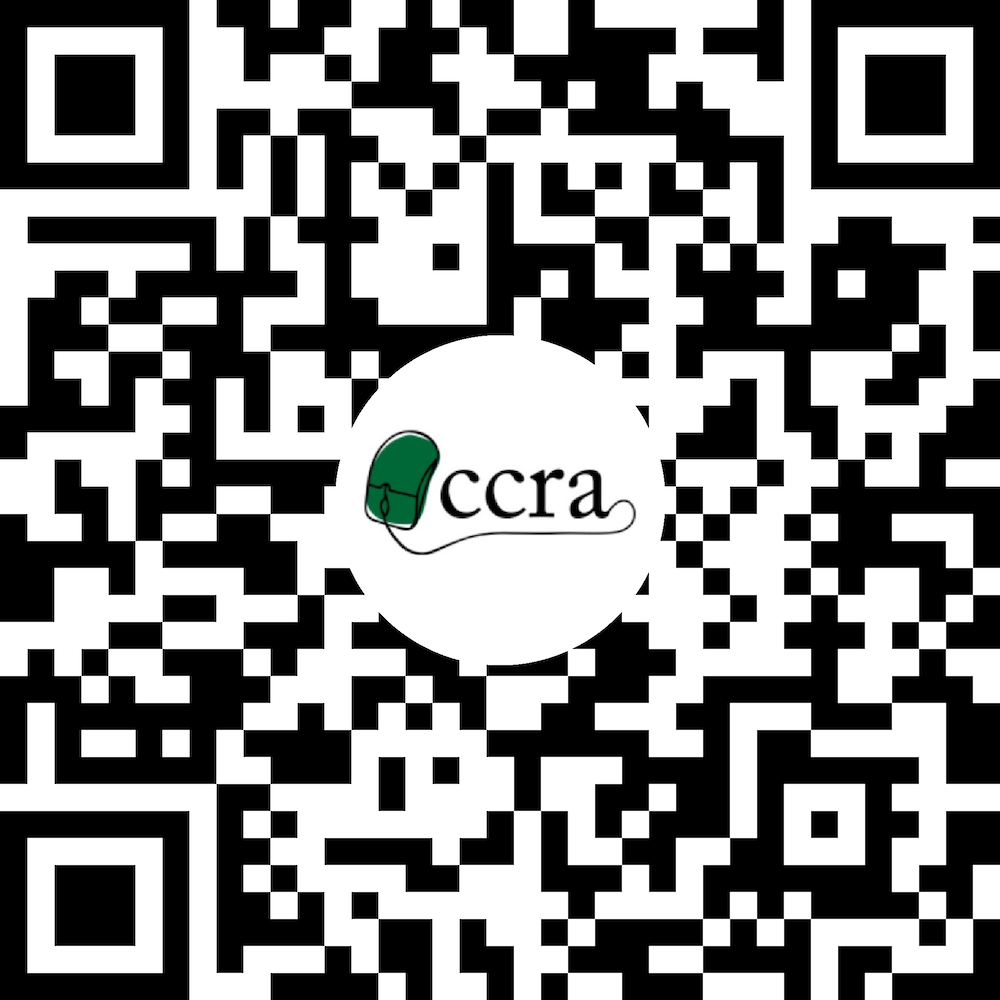
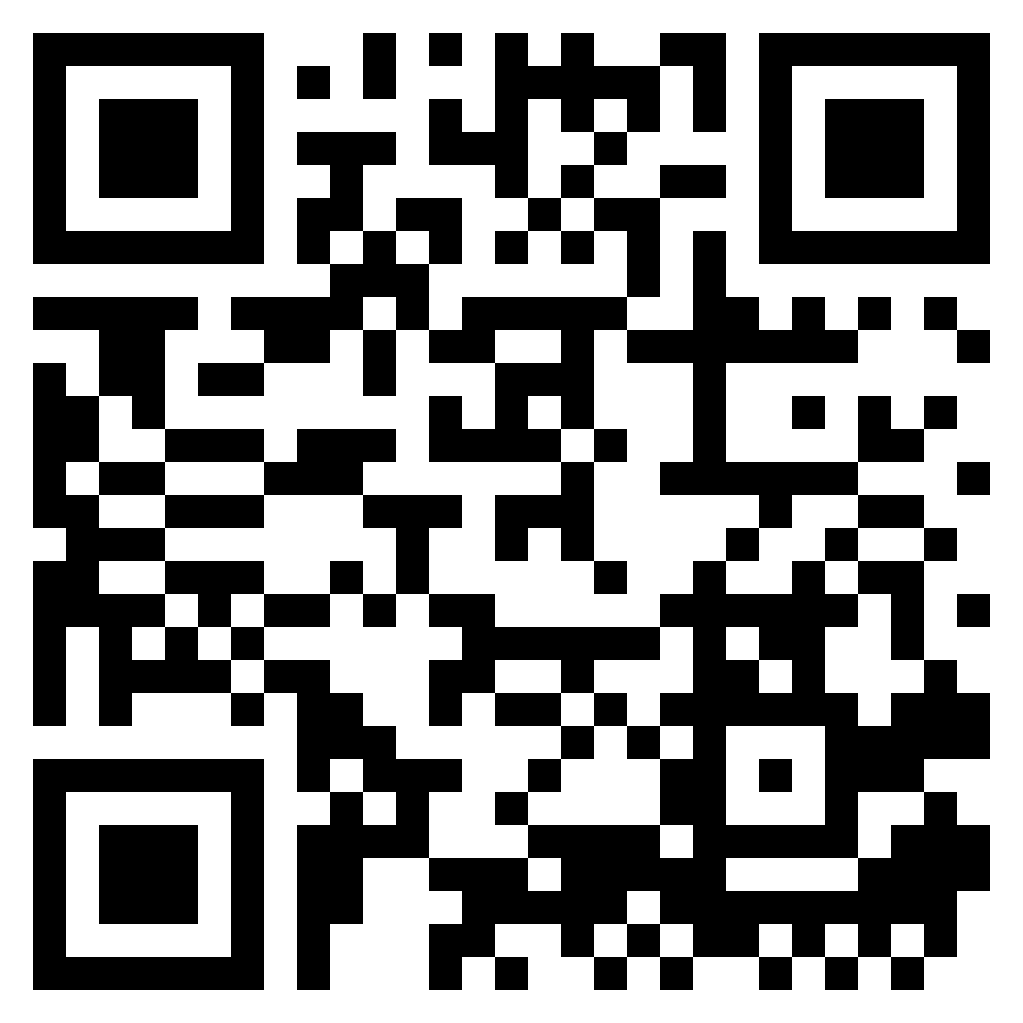
2.1.5

diff --git a/contact.html b/contact.html
@@ -89,7 +89,7 @@
 
             <p>You should also join our <span class="emphasis">GroupMe</span>, where we will post regular updates about
                 meetings. To join the GroupMe, click this link: <a
-                    href="https://groupme.com/join_group/72330433/y1A7989C">https://groupme.com/join_group/72330433/y1A7989C</a>
+                    href="https://cornellcomputerreuse.org/groupme">https://cornellcomputerreuse.org/groupme</a>
                 or scan the QR code below:</p>
 
             <img src="images/contact/qrcode.png" width="200" height="200" alt="GroupMe QR Code">

diff --git a/about-this-website.html b/about-this-website.html
@@ -96,6 +96,11 @@
 
             <p><span class="emphasis">Version History:</span>
                 <br>
+                Version 2.1.5 - 9/3/23
+                <br>
+                • Added a uniform GroupMe invite URL
+                <br>
+                <br>
                 Version 2.1.4 - 8/26/23
                 <br>
                 • Updated info for the Fall 2023 semester
